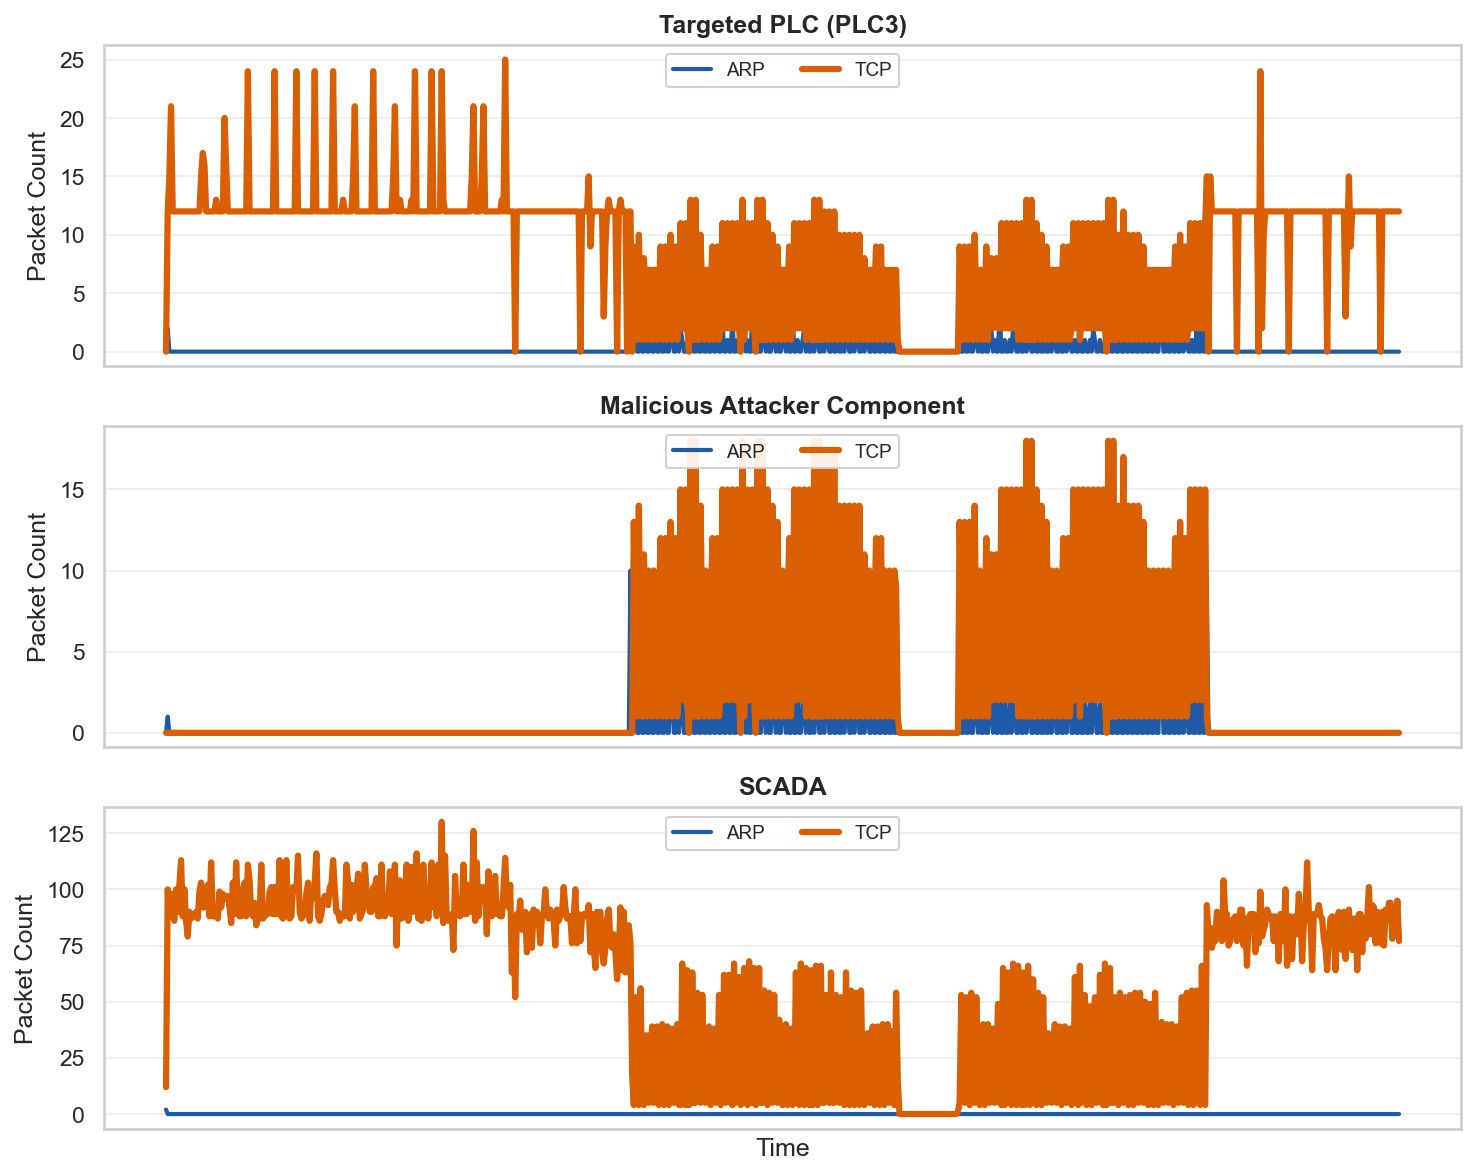
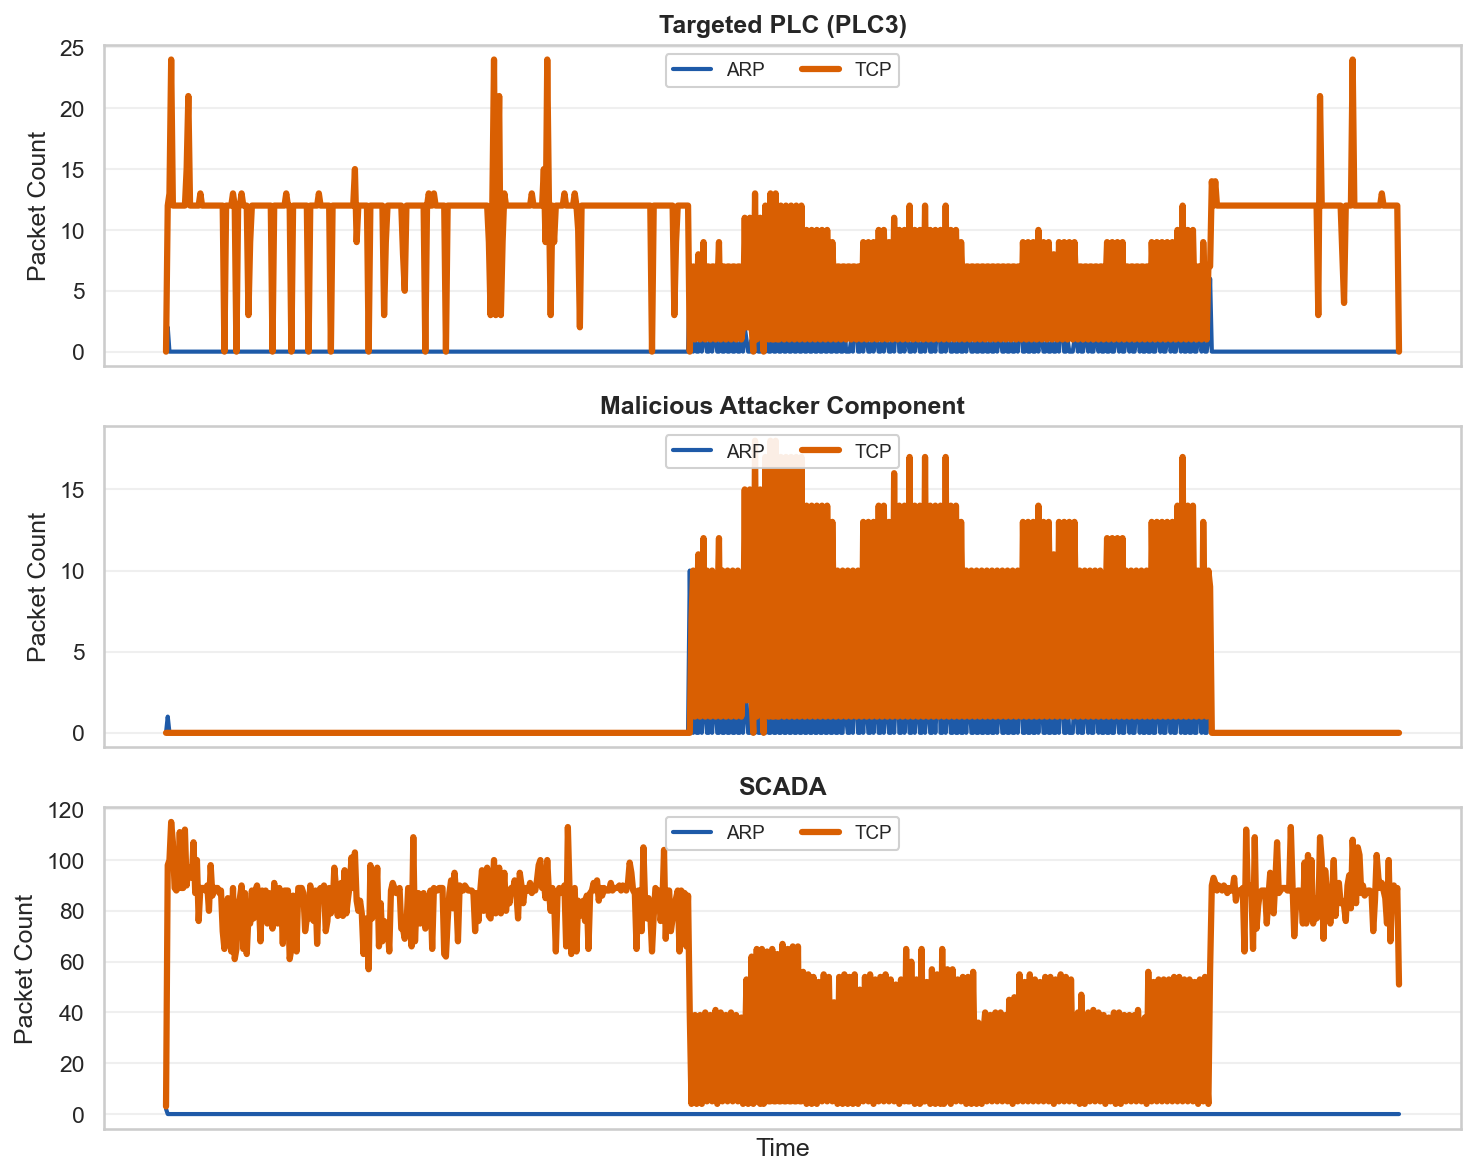
Update visualization to use outputNew3 for WithGuard and cyber layer

diff --git a/aaaMyViz/run_visualization.py b/aaaMyViz/run_visualization.py
@@ -95,9 +95,9 @@ try:
         return packet_times
 
     # Load pcap files from DoS No Guard scenario
-    file_path1 = '../examples/EdenTown/Scada_Case/2_DoS_NoGuard/outputNew2/PLC3-eth0.pcap'
-    file_path2 = '../examples/EdenTown/Scada_Case/2_DoS_NoGuard/outputNew2/plc3Attac-eth0.pcap'
-    file_path3 = '../examples/EdenTown/Scada_Case/2_DoS_NoGuard/outputNew2/scada-eth0.pcap'
+    file_path1 = '../examples/EdenTown/Scada_Case/3_DoS_WithGuard/outputNew3/PLC3-eth0.pcap'
+    file_path2 = '../examples/EdenTown/Scada_Case/3_DoS_WithGuard/outputNew3/plc3Attac-eth0.pcap'
+    file_path3 = '../examples/EdenTown/Scada_Case/3_DoS_WithGuard/outputNew3/scada-eth0.pcap'
 
     packet_times1 = process_pcap_by_time(file_path1)
     packet_times2 = process_pcap_by_time(file_path2)
@@ -269,8 +269,8 @@ except Exception as e:
 print("\n[3/4] Generating DoS WITH Guard - Ground Truth plot...")
 
 try:
-    ground_truth_guard_df = pd.read_csv('../examples/EdenTown/Scada_Case/3_DoS_WithGuard/outputNew2/ground_truth.csv')
-    scada_guard_df = pd.read_csv('../examples/EdenTown/Scada_Case/3_DoS_WithGuard/outputNew2/scada_values.csv')
+    ground_truth_guard_df = pd.read_csv('../examples/EdenTown/Scada_Case/3_DoS_WithGuard/outputNew3/ground_truth.csv')
+    scada_guard_df = pd.read_csv('../examples/EdenTown/Scada_Case/3_DoS_WithGuard/outputNew3/scada_values.csv')
     ground_truth_guard_df = ground_truth_guard_df.drop(0)
 
     attack_intervals_guard = find_attack_intervals(ground_truth_guard_df, 'plc2AttackerUnit')
@@ -382,4 +382,6 @@ print("  • DoS_NoGuard_GroundTruth.png     - Physical layer without guard")
 print("  • DoS_NoGuard_ScadaView.png       - What SCADA sees (frozen data!)")
 print("  • DoS_WithGuard_GroundTruth.png   - Physical layer WITH guard")
 print("  • DoS_WithGuard_ScadaView.png     - SCADA view WITH guard")
+print()
+
 print()
